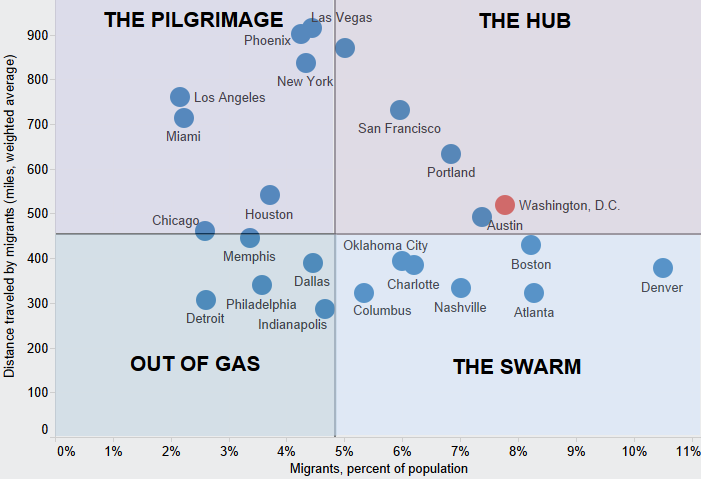
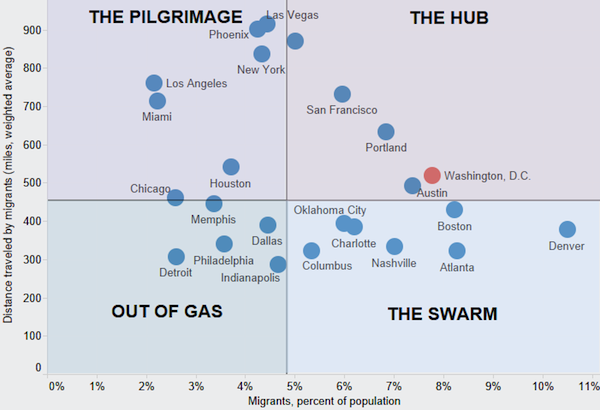
resize image, add text and format

diff --git a/Article1.html b/Article1.html
@@ -162,10 +162,9 @@ google.maps.event.addDomListener(window, 'load', initialize);
     <h3> Kate Rabinowitz // July 21, 2015 </h3>
 		  <p class='content'> When I moved to DC about five years ago I did so with an onslaught of millennials in search of jobs and housing that was not their parents (plus maybe some people with more romantic visions). People often ask where are you from, because it was obviously not DC, and when did you move here because, inevitably you just did.<br><br>And five years later this hasn’t actually changed much. Of course, there are a number of people that have lived here for years but DC is never short of transplants starting anew. The constant influx is one of the things I like about DC; it is a very migratory population. But, really, how migratory?</p>
       <p class='graph-title'>How Migratory are Major U.S. Cities?</p>
-      <p class='graph-subtitle'> Circle size indicates migration score based on migration rate and migration distance traveled. Click on a circle for more information</p>
-      <div id="map-canvas" style="width:700px;height:380px;"></div>
+      <p class='graph-subtitle'> Circle size indicates migration score based on migration rate and migration distance traveled.<br>Click on a circle for more information</p>
+      <div id="map-canvas" style="width:650px;height:380px;"></div>
       <p class='content'> In fact, DC is the most migratory city east of the Mississippi and rounds out the top five for most migratory cities:</p>
-      <div>
         <ul class='ranking'>
           <li>1. San Francisco</li>
           <li>2. Seattle</li>
@@ -178,10 +177,10 @@ google.maps.event.addDomListener(window, 'load', initialize);
           <li>9. New York</li>
           <li>10. Boston</li>
        </ul>         
-     </div>
-     <p> If this list tells me anything it's that "Go west, young (wo)man!" is far from dead.<br><br>But so this migration score is made up of two different factors:<br>How many people move to the city each year, compared to the city's population, and<br>How far do people travel when they move to the city?<br>Looking at how these two different metrics shaped out across the cities, four very different groups became clear - </p>
-      <a href="US Migratory Matrix"><img class="scatter" src="./Images/US Migration Matrix.png" alt="US Migratory Matrix"></a>
-      <p>The Pilgrimage - While there aren’t as many migrants each year compared to the city size, migrants come from far and wide. Whether it’s to make it in the big city or live out the rest of their days, these cities lay at the end of a pilgrimage. <br>The Hub - These cities see a large influx of migrants each year coming from all over the U.S. Not very large cities, it is the distinct character, job market and/or lifestyle that attracts people to them. <br>The Swarm - A large number of people swarm these cities from neighboring suburbs and regions. These cities are often emblematic of the region they reside. <br>Out of Gas - Not too many people descend on these cities, and when they do it’s not from all that far. Who’s to say why they come - maybe they ran out of gas on a pilgrimage, maybe they came through town one night and just couldn’t turn away. Either way, they’re there now.<br><br><br><br>
+     <p class='content'> It appears "Go west, young (wo)man!" is far from dead.<br><br>So this migration score is drive by two factors - how many people move to the city each year as a proportion of the city's population and how far people travel when they move to the city. Looking at these two drivers across these cities four distinct groups became clear - </p>
+      <a href="US Migratory Matrix"><img class="scatter" src="./Images/US Migration Matrix.png" alt="US Migratory Matrix" align='middle'></a>
+      <p class='content'> In the upper left we see <b>The Pilgrimage<b>. Not as many migrants come each year compared to city size but they come from far and wide. Whether it’s to make it in the big city or live out the rest of their days, these cities lay at the end of a pilgrimage. To right is <b>The Hub<b>, cities with a large inflow of migrants annnually coming from across the U.S. Not as large as the Pilgrimage cities, it is the distinct character, job market and/or lifestyle that attracts people to Hub. Below is <b>The Swarm<b>, cities that attract a large number of closer migrants and are often emblematic of their larger region. And finally in the bottom left we find <b>Out of Gas<b>. Not too many people descend on these cities, and when they do it’s not from very far. Who’s to say why they come - maybe they ran out of gas on a pilgrimage, maybe they came through town one night and just couldn’t turn away.<br>And there sits DC, squarely in the Hub. But beyond being a government town what are the distinct characteristics and trends of the city? More of that to come...<p>
+        <br><br><br><br>
   </div>
     
   <div class='col-sm-3 side'>

diff --git a/CSS/main.css b/CSS/main.css
@@ -144,26 +144,43 @@ h3 {
 
 .content {
 	text-align:left;
-	padding:20px 20px 0 30px;
+	padding:10px 20px 0 50px;
 }
 
 /*Main Text Add-Ons*/
-.ranking
-{   
+.graph-title {
+	font-weight:bold;
+	font-size:20px;
+	text-align:center;
+	margin-bottom:0px;
+}
+
+.graph-subtitle {
+	text-align:center;
+	margin-top:0px;
+}
+
+#map-canvas{
+	margin:auto;
+}
+
+.ranking {   
     -moz-column-width: 20em; /* Firefox */
     -webkit-column-width: 20em; /* webkit, Safari, Chrome */
     column-width: 20em;
 }
 
-.ranking ul
-{
-    margin: 0;
+.ranking ul li{
+    margin: 0 0 0 60px;
     padding: 0;
     list-style-type: none;
 }
 
-.ranking ul li:first-child
-{
+.ranking ul li:first-child {
     margin-top:0px;
 }
 
+IMG.scatter {
+    display: block;
+    margin-left: auto;
+    margin-right: auto }
